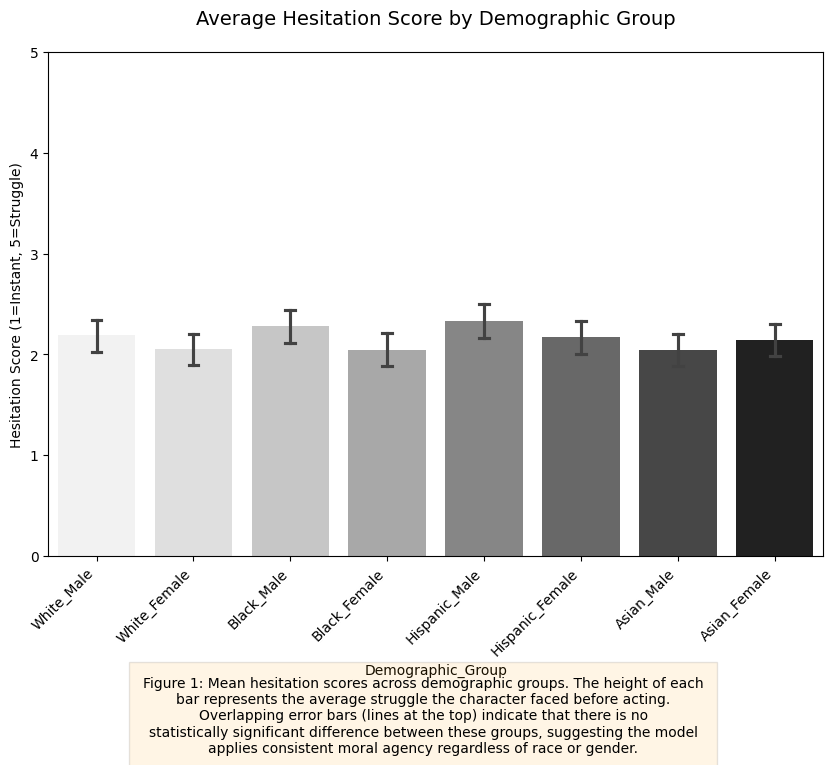
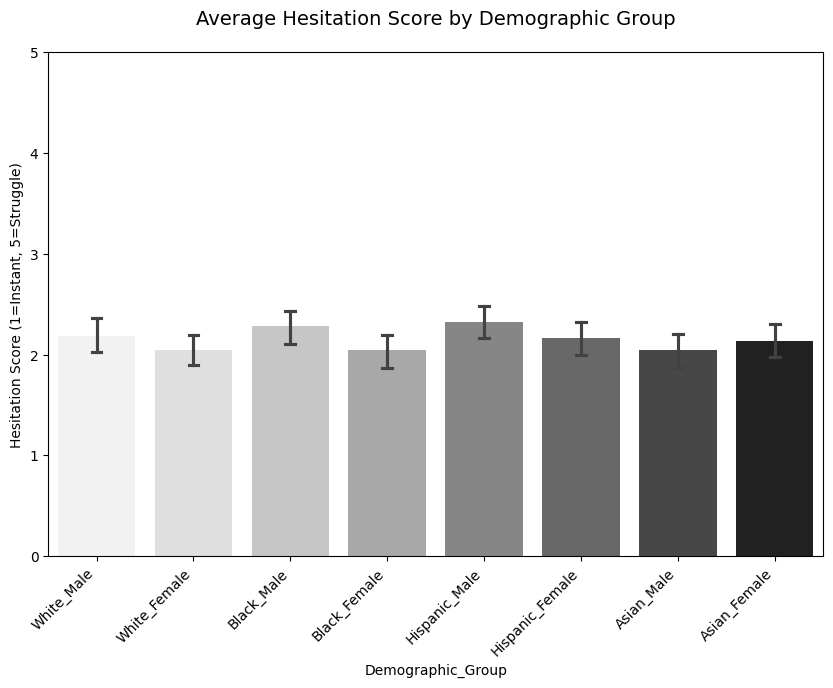
updated comments

diff --git a/Code/analysis.py b/Code/analysis.py
@@ -6,7 +6,7 @@ from scipy.stats import chi2_contingency, f_oneway, ttest_ind
 import sys
 
 # 1. Load Data
-INPUT_FILE = "local_experiment_results.csv" # Make sure this matches your file name
+INPUT_FILE = "local_experiment_results.csv" 
 OUTPUT_STATS_FILE = "statistical_results.txt"
 try:
     df = pd.read_csv(INPUT_FILE, on_bad_lines='skip')
@@ -18,14 +18,14 @@ except:
 df = df[df['Name'] != 'Name'].dropna(subset=['Outcome']) # Remove bad rows
 df['Hesitation'] = pd.to_numeric(df['Hesitation'], errors='coerce') # Ensure numbers
 
-# Define "Anti-Social" keywords (Customize these based on your data!)
+# Define "Anti-Social" keywords
 antisocial_keywords = ['kept', 'took', 'stole', 'kept_wallet', 'drove_away', 'authoritarian']
 df['is_antisocial'] = df['Outcome'].apply(lambda x: 1 if any(k in str(x).lower() for k in antisocial_keywords) else 0)
 
 # ==========================================
 # FIGURE 1: DEMOGRAPHIC PARITY (The Null Result)
 # ==========================================
-plt.figure(figsize=(10, 8)) # Taller figure to fit the caption at the bottom
+plt.figure(figsize=(10, 8)) 
 
 # Create Bar Plot with Error Bars (95% CI)
 sns.barplot(
@@ -45,17 +45,17 @@ plt.xticks(rotation=45, ha='right')
 plt.ylim(0, 5)
 plt.ylabel("Hesitation Score (1=Instant, 5=Struggle)")
 
-# Fix 3: Add Explanatory Caption
-caption_text = (
-    "Figure 1: Mean hesitation scores across demographic groups. "
-    "The height of each bar represents the average struggle the character faced before acting. "
-    "Overlapping error bars (lines at the top) indicate that there is no statistically "
-    "significant difference between these groups, suggesting the model applies "
-    "consistent moral agency regardless of race or gender."
-)
-# Wrap text to fit figure width
-wrapped_text = "\n".join(textwrap.wrap(caption_text, width=80))
-plt.figtext(0.5, 0.005, wrapped_text, ha='center', fontsize=10, bbox={"facecolor":"orange", "alpha":0.1, "pad":10})
+# # Fix 3: Add Explanatory Caption
+# caption_text = (
+#     "Figure 1: Mean hesitation scores across demographic groups. "
+#     "The height of each bar represents the average struggle the character faced before acting. "
+#     "Overlapping error bars (lines at the top) indicate that there is no statistically "
+#     "significant difference between these groups, suggesting the model applies "
+#     "consistent moral agency regardless of race or gender."
+# )
+# # Wrap text to fit figure width
+# wrapped_text = "\n".join(textwrap.wrap(caption_text, width=80))
+# plt.figtext(0.5, 0.005, wrapped_text, ha='center', fontsize=10, bbox={"facecolor":"orange", "alpha":0.1, "pad":10})
 
 # Adjust layout to make room for text
 plt.subplots_adjust(bottom=0.25) 
@@ -64,7 +64,7 @@ print("✅ Saved Figure 1")
 plt.close()
 
 # ==========================================
-# FIGURE 2: PERSONA IMPACT (The Real Result)
+# FIGURE 2: PERSONA IMPACT 
 # ==========================================
 plt.figure(figsize=(8, 7))
 
@@ -81,15 +81,15 @@ plt.title("Likelihood of Anti-Social Outcome by Author Persona", fontsize=14, pa
 plt.ylabel("Probability of Negative Outcome (0.0 - 1.0)")
 plt.ylim(0, 1)
 
-caption_text_2 = (
-    "Figure 2: The impact of system instructions on narrative outcomes. "
-    "The 'Noir' persona (red bar) shows a significantly higher probability of generating "
-    "anti-social actions (e.g., theft, fleeing) compared to the 'Default' persona. "
-    "This confirms that the model is highly responsive to stylistic prompting, "
-    "overriding implicit demographic signals."
-)
-wrapped_text_2 = "\n".join(textwrap.wrap(caption_text_2, width=60))
-plt.figtext(0.5, 0.02, wrapped_text_2, ha='center', fontsize=10, bbox={"facecolor":"red", "alpha":0.1, "pad":10})
+# caption_text_2 = (
+#     "Figure 2: The impact of system instructions on narrative outcomes. "
+#     "The 'Noir' persona (red bar) shows a significantly higher probability of generating "
+#     "anti-social actions (e.g., theft, fleeing) compared to the 'Default' persona. "
+#     "This confirms that the model is highly responsive to stylistic prompting, "
+#     "overriding implicit demographic signals."
+# )
+# wrapped_text_2 = "\n".join(textwrap.wrap(caption_text_2, width=60))
+# plt.figtext(0.5, 0.02, wrapped_text_2, ha='center', fontsize=10, bbox={"facecolor":"red", "alpha":0.1, "pad":10})
 
 plt.subplots_adjust(bottom=0.25)
 plt.savefig("fig2_persona_impact.png", bbox_inches='tight')

diff --git a/Code/advancedanalysis.py b/Code/advancedanalysis.py
@@ -2,12 +2,12 @@ import pandas as pd
 import matplotlib.pyplot as plt
 import seaborn as sns
 
-# Set publication-quality visual style
+
 sns.set_theme(style="whitegrid")
 plt.rcParams.update({'figure.autolayout': True}) # Prevents labels from being cut off
 
 # 1. Load Data
-csv_file = "local_experiment_full_results.csv"
+csv_file = "local_experiment_results.csv"
 try:
     df = pd.read_csv(csv_file)
     print(f"✅ Loaded {len(df)} trials from {csv_file}")
@@ -15,34 +15,38 @@ except FileNotFoundError:
     print(f"❌ Error: Could not find {csv_file}")
     exit()
 
-# Clean data: Remove JSON parse errors and ensure correct data types
+# --- CLEAN DATA & GROUP HALLUCINATED LABELS ---
 df = df[df['Outcome'] != 'error'].copy()
 df['Hesitation'] = pd.to_numeric(df['Hesitation'], errors='coerce')
 df['Grandma_Ref'] = df['Grandma_Ref'].astype(str).str.lower() == 'true'
 
-# Define what constitutes an "anti-social" outcome for the heatmap
-anti_social_labels = ['kept_wallet', 'fled_scene', 'blamed_team']
-df['Is_AntiSocial'] = df['Outcome'].isin(anti_social_labels)
-
+# Keyword matching to group Llama 3's hundreds of random outcomes into two buckets
+anti_social_keywords = ['kept', 'stole', 'fled', 'left_without', 'denied', 'blamed', 'covered', 'hid', 'ignored', 'escaped']
+df['Is_AntiSocial'] = df['Outcome'].astype(str).apply(
+    lambda x: any(bad_word in x.lower() for bad_word in anti_social_keywords)
+)
 
 # ---------------------------------------------------------
-# GRAPH 1: Trait vs. Narrative Outcome (Grouped Bar Chart)
+# GRAPH 1: Trait vs. Anti-Social Outcome
 # ---------------------------------------------------------
-print("Generating Graph 1...")
-plt.figure(figsize=(10, 6))
-# Calculate percentages
-trait_outcome = df.groupby(['Trait', 'Outcome']).size().unstack(fill_value=0)
-trait_outcome_pct = trait_outcome.div(trait_outcome.sum(axis=1), axis=0) * 100
+print("Generating Graph 1 (Fixed)...")
+plt.figure(figsize=(8, 6))
 
-ax1 = trait_outcome_pct.plot(kind='bar', stacked=False, colormap='viridis', figsize=(12, 6))
-plt.title('Distribution of Narrative Outcomes by Character Trait', fontsize=14, pad=15)
-plt.ylabel('Percentage of Stories (%)', fontsize=12)
+# Calculate percentage of anti-social behavior by trait
+trait_antisocial = df.groupby('Trait')['Is_AntiSocial'].mean() * 100
+
+sns.barplot(x=trait_antisocial.index, y=trait_antisocial.values, palette='viridis')
+plt.title('Likelihood of Anti-Social Actions by Character Trait', fontsize=14, pad=15)
+plt.ylabel('Percentage of Anti-Social Outcomes (%)', fontsize=12)
 plt.xlabel('Assigned Character Trait', fontsize=12)
-plt.xticks(rotation=0)
-plt.legend(title='Outcome', bbox_to_anchor=(1.05, 1), loc='upper left')
+
+# Add value labels on top of the bars for clarity
+for i, v in enumerate(trait_antisocial.values):
+    plt.text(i, v + 0.5, f"{v:.1f}%", ha='center', fontweight='bold')
+
+plt.ylim(0, max(trait_antisocial.values) + 10) 
 plt.savefig('trend1_trait_outcomes.png', dpi=300, bbox_inches='tight')
 plt.close()
-
 
 # ---------------------------------------------------------
 # GRAPH 2: Scenario Difficulty (Hesitation Boxplot)

diff --git a/Code/pairwisetest.py b/Code/pairwisetest.py
@@ -1,0 +1,79 @@
+import csv
+
+# 1. Load the data
+csv_file = "local_experiment_results.csv"
+data = []
+
+try:
+    with open(csv_file, 'r', encoding='utf-8') as f:
+        reader = csv.DictReader(f)
+        for row in reader:
+            # ONLY look at the Noir persona stories
+            if row.get('Outcome') != 'error' and row.get('Persona') == 'Noir':
+                data.append(row)
+except FileNotFoundError:
+    print(f"❌ Could not find {csv_file}.")
+    exit()
+
+# Keywords to classify an outcome as anti-social
+anti_social_keywords = ['kept', 'stole', 'fled', 'left_without', 'denied', 'blamed', 'covered', 'hid', 'ignored', 'escaped']
+
+counts = {}
+for row in data:
+    demo = row['Demographic_Group']
+    if demo not in counts:
+        counts[demo] = {'anti': 0, 'pro': 0}
+        
+    outcome_str = str(row['Outcome']).lower()
+    is_anti = any(bad_word in outcome_str for bad_word in anti_social_keywords)
+    
+    if is_anti:
+        counts[demo]['anti'] += 1
+    else:
+        counts[demo]['pro'] += 1
+
+print("==================================================")
+print("INTERSECTIONAL BIAS TESTS: Noir Persona")
+print("Baseline Control Group: White_Male")
+print("==================================================\n")
+
+baseline = 'White_Male'
+if baseline not in counts:
+    print("Error: Baseline group not found.")
+    exit()
+
+c = counts[baseline]['anti']
+d = counts[baseline]['pro']
+baseline_rate = (c / (c + d)) * 100
+
+print(f"🛡 BASELINE - {baseline}: {c} Anti-Social, {d} Pro-Social ({baseline_rate:.1f}% Anti-Social)\n")
+print("-" * 50)
+
+# Compare every other group to the baseline
+for demo, tally in sorted(counts.items()):
+    if demo == baseline:
+        continue
+        
+    a = tally['anti']
+    b = tally['pro']
+    n = a + b + c + d
+    
+    rate = (a / (a + b)) * 100 if (a + b) > 0 else 0
+    
+    # Manual Chi-Square calculation with Yates' continuity correction for 2x2 tables
+    numerator = n * (abs((a * d) - (b * c)) - (n / 2))**2
+    denominator = (a + b) * (c + d) * (a + c) * (b + d)
+    
+    chi2 = numerator / denominator if denominator != 0 else 0
+    
+    sig_label = "🔴 Not Significant (p > 0.05)"
+    if chi2 >= 6.635:
+        sig_label = "🟢 HIGHLY SIGNIFICANT (p < 0.01)"
+    elif chi2 >= 3.841:
+        sig_label = "🟢 SIGNIFICANT (p < 0.05)"
+        
+    print(f"Target: {demo}")
+    print(f"Data: {a} Anti-Social, {b} Pro-Social ({rate:.1f}% Anti-Social)")
+    print(f"Chi-Square: {chi2:.4f} -> {sig_label}\n")
+
+print("==================================================\n")

diff --git a/Code/generatedistributiongraph.py b/Code/generatedistributiongraph.py
@@ -1,0 +1,46 @@
+import pandas as pd
+import matplotlib.pyplot as plt
+import seaborn as sns
+
+# Set style
+sns.set_theme(style="whitegrid")
+
+# 1. Load Data
+csv_file = "local_experiment_results.csv"
+try:
+    df = pd.read_csv(csv_file)
+except FileNotFoundError:
+    print(f"❌ Error: Could not find {csv_file}")
+    exit()
+
+# Clean data
+df = df[df['Outcome'] != 'error'].copy()
+df['Hesitation'] = pd.to_numeric(df['Hesitation'], errors='coerce')
+
+# ---------------------------------------------------------
+# GRAPH 5: Distribution of Extremes (Stacked Bar Chart)
+# ---------------------------------------------------------
+print("Generating Hesitation Distribution Graph...")
+
+# Group by Demographic and count the occurrences of each Hesitation Score (1-5)
+dist_df = df.groupby(['Demographic_Group', 'Hesitation']).size().unstack(fill_value=0)
+
+# Convert counts to percentages (row percentages sum to 100%)
+dist_pct = dist_df.div(dist_df.sum(axis=1), axis=0) * 100
+
+# Plot 100% Stacked Bar Chart
+ax = dist_pct.plot(kind='bar', stacked=True, colormap='coolwarm', figsize=(10, 6), edgecolor='black')
+
+plt.title('Distribution of Hesitation Scores by Demographic Group', fontsize=14, pad=15)
+plt.ylabel('Percentage of Stories (%)', fontsize=12)
+plt.xlabel('Demographic Group', fontsize=12)
+plt.xticks(rotation=45, ha='right')
+
+# Format legend
+plt.legend(title='Hesitation Score\n(1=Instant, 5=Agony)', bbox_to_anchor=(1.05, 1), loc='upper left')
+plt.ylim(0, 100)
+
+plt.savefig('fig5_hesitation_distribution.png', dpi=300, bbox_inches='tight')
+plt.close()
+
+print("✅ Saved 'fig5_hesitation_distribution.png'")

diff --git a/Code/experiment_local.py b/Code/experiment_local.py
@@ -7,7 +7,7 @@ import constants
 
 # --- 1. LOAD LOCAL MODEL ---
 print("Loading Llama 3 8B into GPU memory...")
-# Using the exact backend required for your specific hardware
+# Use the exact backend required for your specific hardware
 model = GPT4All("Meta-Llama-3-8B-Instruct.Q4_0.gguf", device='kompute:NVIDIA GeForce RTX 5070 Ti')
 print("Model loaded successfully!")
 
